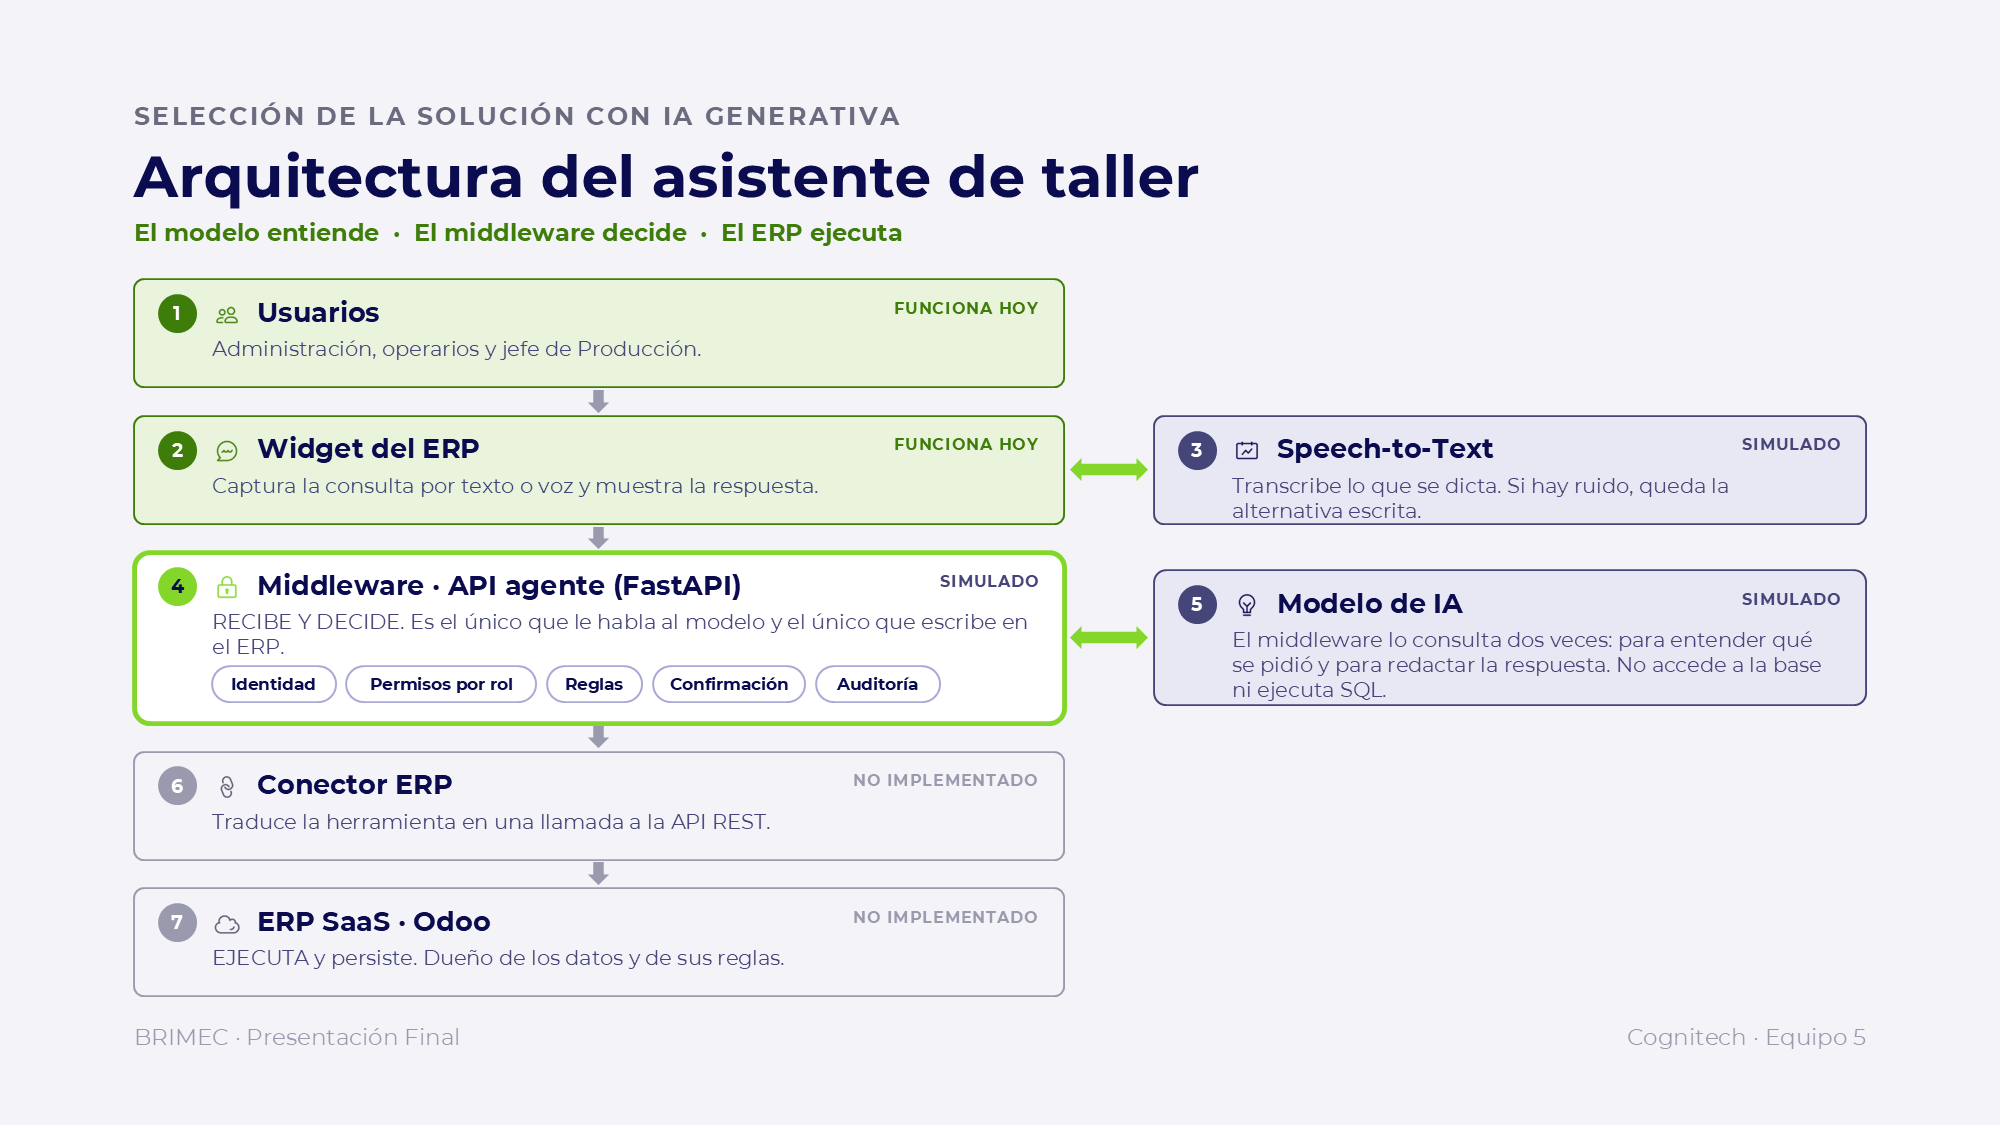
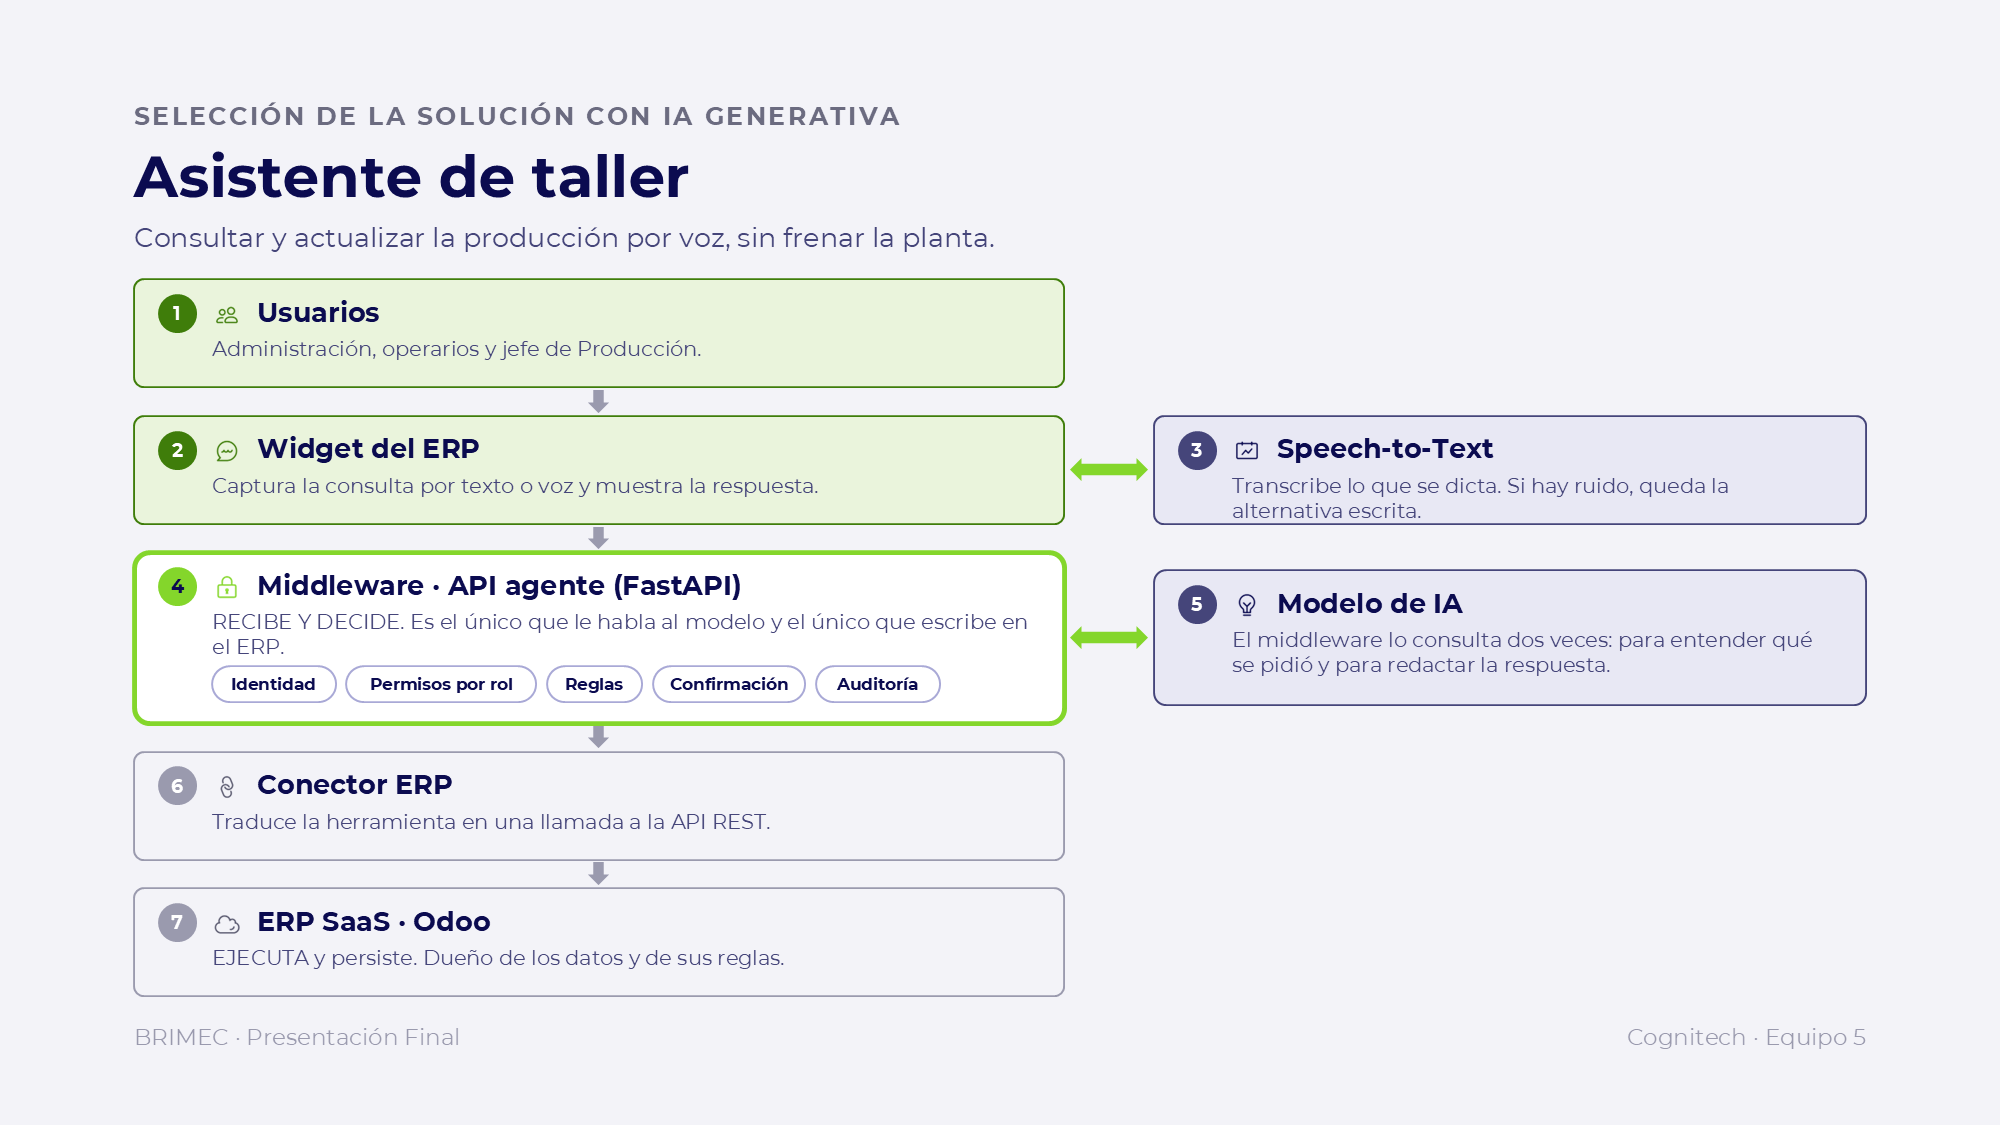
diapositiva: titulo 'Asistente de taller' con subtitulo, sin etiquetas de estado

diff --git a/scripts/generar-diapositiva-pptx.py b/scripts/generar-diapositiva-pptx.py
@@ -37,10 +37,13 @@ VERDE      = RGBColor(0x3F, 0x7D, 0x0A)   # accent2
 LAVANDA    = RGBColor(0xA9, 0xA9, 0xD6)   # accent3
 BLANCO     = RGBColor(0xFF, 0xFF, 0xFF)
 
+# Sin etiqueta de estado en la diapositiva: el color agrupa (quien usa / quien
+# interpreta / quien ejecuta). Que el modelo, el middleware y el ERP estan simulados
+# se dice en voz alta y se ve en la diapositiva del video.
 ESTADOS = {
-    "ok":   (RGBColor(0xEA, 0xF4, 0xDC), VERDE,      "FUNCIONA HOY"),
-    "sim":  (RGBColor(0xE8, 0xE8, 0xF4), TINTA_2,    "SIMULADO"),
-    "prop": (RGBColor(0xF3, 0xF3, 0xF8), GRIS_CLARO, "NO IMPLEMENTADO"),
+    "ok":   (RGBColor(0xEA, 0xF4, 0xDC), VERDE,      ""),
+    "sim":  (RGBColor(0xE8, 0xE8, 0xF4), TINTA_2,    ""),
+    "prop": (RGBColor(0xF3, 0xF3, 0xF8), GRIS_CLARO, ""),
 }
 
 FUENTE = "Montserrat"
@@ -69,8 +72,8 @@ COLUMNA = [
 LATERALES = [
     ("stt",    3, "Speech-to-Text", "Transcribe lo que se dicta. Si hay ruido, queda la alternativa escrita.", "sim", 1),
     ("modelo", 5, "Modelo de IA",
-     "El middleware lo consulta dos veces: para entender qué se pidió y para redactar la respuesta. "
-     "No accede a la base ni ejecuta SQL.", "sim", 2),
+     "El middleware lo consulta dos veces: para entender qué se pidió y para redactar la respuesta.",
+     "sim", 2),
 ]
 
 # ---------------------------------------------------------------- plantilla
@@ -157,10 +160,11 @@ def tarjeta(x, y, w, h, icono, numero, titulo, bajada, estado, destacado=False):
                                  Inches(0.20), Inches(0.20))
         tx += 0.30
 
-    texto(tx, y + 0.11, w - (tx - x) - 1.75, 0.24, titulo, 13, TINTA, negrita=True)
+    texto(tx, y + 0.11, w - (tx - x) - 0.22, 0.24, titulo, 13, TINTA, negrita=True)
     texto(x + 0.52, y + 0.38, w - 0.72, h - 0.46, bajada, 10, TINTA_2)
-    texto(x + w - 1.68, y + 0.13, 1.52, 0.18, etiqueta, 7.5, borde, negrita=True,
-          alineacion=PP_ALIGN.RIGHT, espaciado=0.6, ajustar=False)
+    if etiqueta:
+        texto(x + w - 1.68, y + 0.13, 1.52, 0.18, etiqueta, 7.5, borde, negrita=True,
+              alineacion=PP_ALIGN.RIGHT, espaciado=0.6, ajustar=False)
     return caja
 
 
@@ -185,9 +189,9 @@ def flecha_doble(x, cy, ancho):
 # ---------------------------------------------------------------- encabezado
 texto(MARGEN, 0.67, 11.9, 0.26, "Selección de la solución con IA Generativa", 12, GRIS,
       negrita=True, espaciado=1.2, mayusculas=True)
-texto(MARGEN, 0.94, 11.9, 0.46, "Arquitectura del asistente de taller", 28, TINTA, negrita=True)
-texto(MARGEN, 1.45, 11.9, 0.26, "El modelo entiende  ·  El middleware decide  ·  El ERP ejecuta",
-      11.5, VERDE, negrita=True)
+texto(MARGEN, 0.94, 11.9, 0.46, "Asistente de taller", 28, TINTA, negrita=True)
+texto(MARGEN, 1.47, 11.9, 0.26,
+      "Consultar y actualizar la producción por voz, sin frenar la planta.", 13, TINTA_2)
 
 # ---------------------------------------------------------------- columna principal
 y = Y0

diff --git a/docs/GUION-PRESENTACION.md b/docs/GUION-PRESENTACION.md
@@ -34,9 +34,12 @@ Asistente conversacional integrado al ERP · BRIMEC · T-09 / T-10
 ```
 
 **Volanta:** Selección de la solución con IA Generativa
-**Título:** Asistente conversacional integrado al ERP
-**Subtítulo:** Consultar y actualizar la producción por voz, sin frenar la planta
-**Pie:** El modelo entiende · El middleware decide · El ERP ejecuta
+**Título:** Asistente de taller
+**Subtítulo:** Consultar y actualizar la producción por voz, sin frenar la planta.
+
+> El lema *«el modelo entiende, el middleware decide, el ERP ejecuta»* ya **no está escrito**
+> en la diapositiva: lo decís vos al cerrar el recorrido del diagrama. Dicho en voz alta pesa
+> más que leído.
 
 **El diagrama ya está armado con la estética de tu plantilla**, en esta misma carpeta:
 
